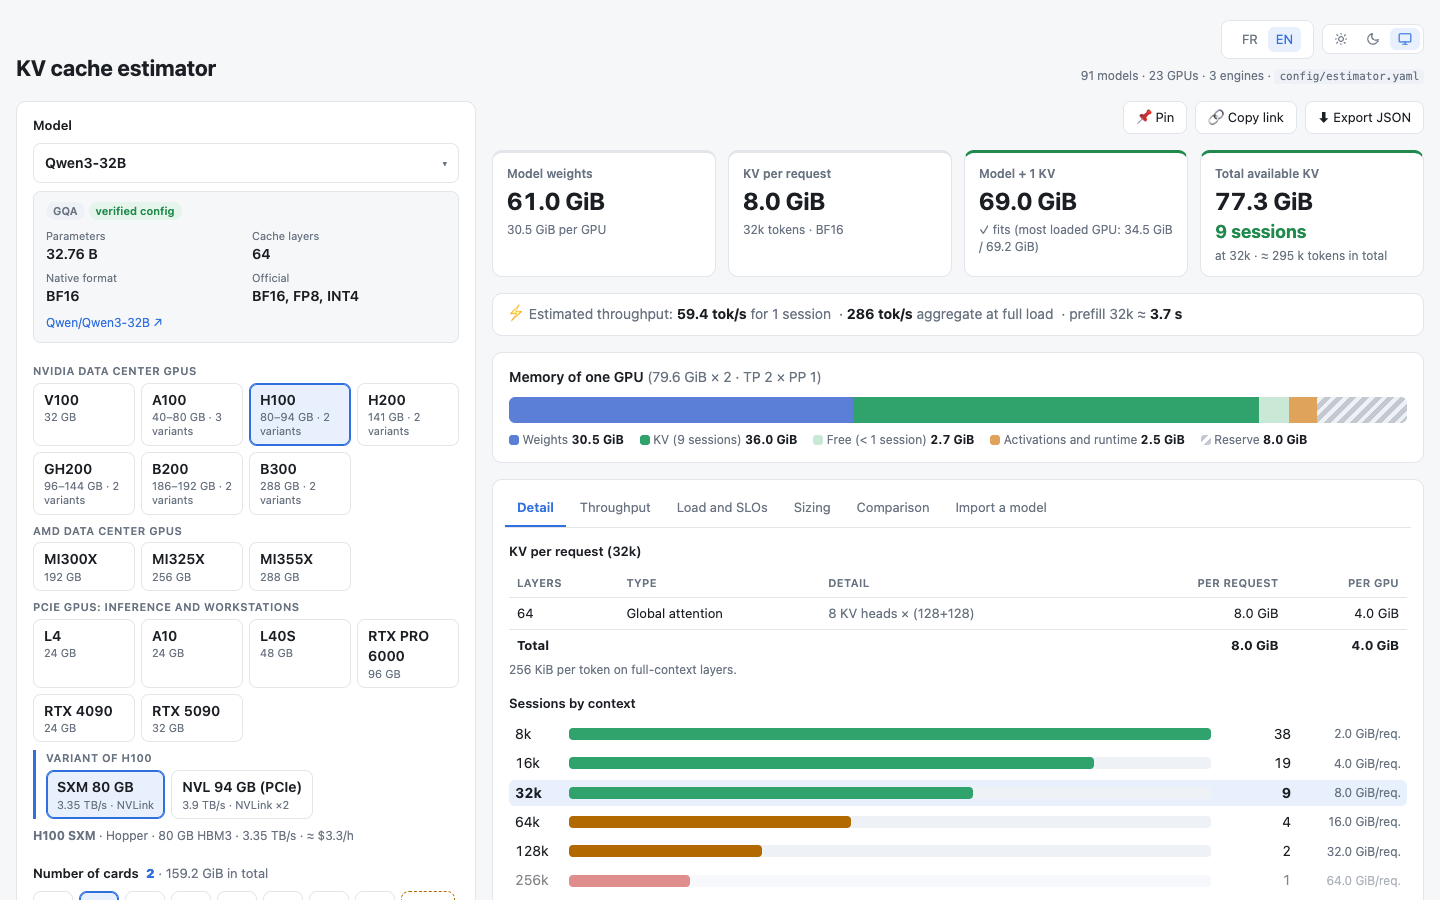
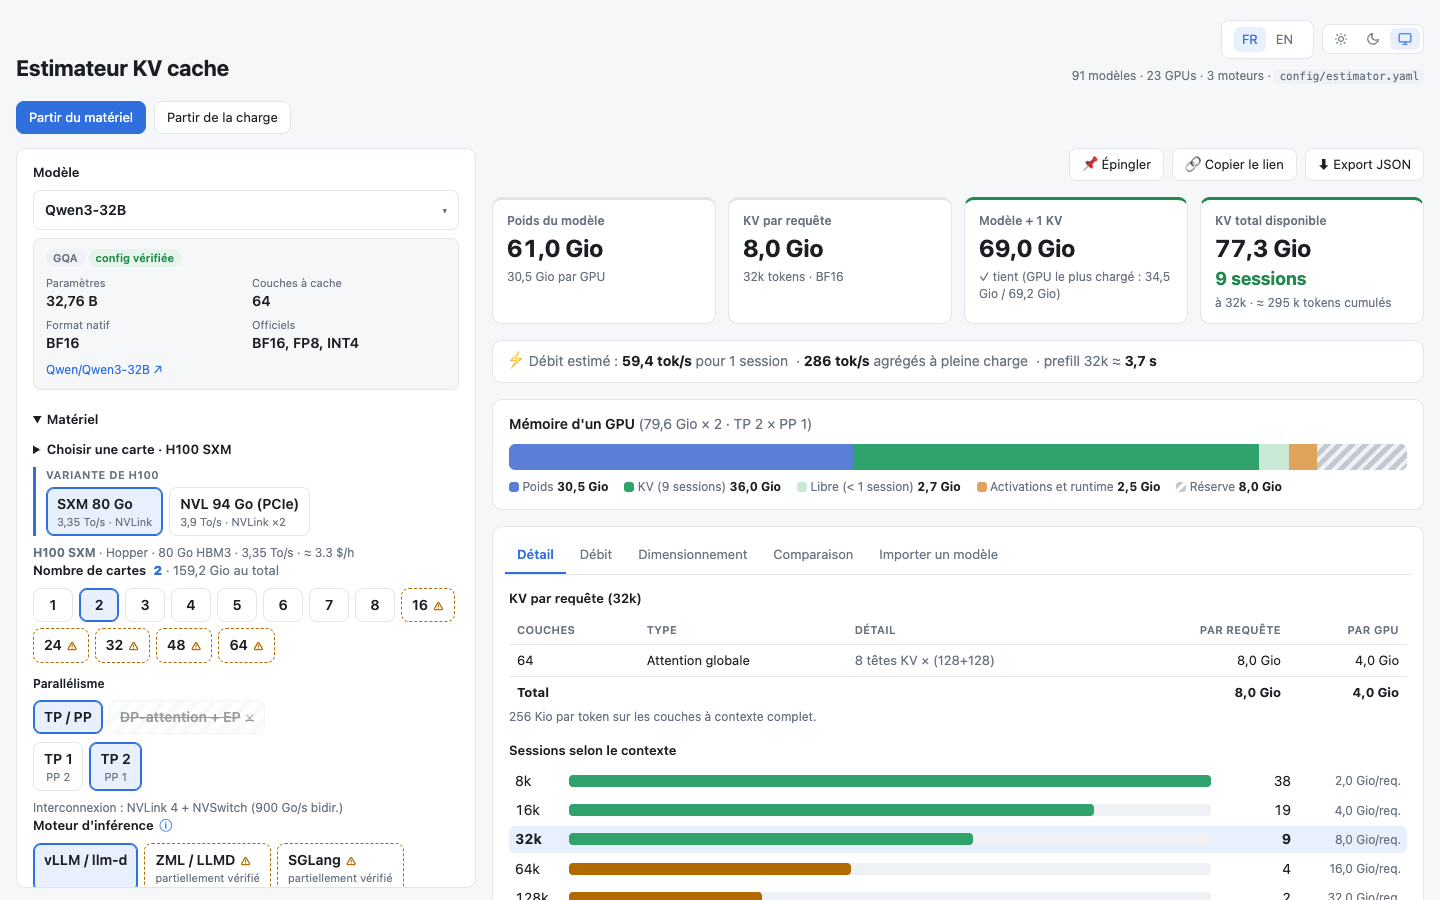
feat: keep estimation results visible while configuring (#14)

diff --git a/src/components/Estimator.tsx b/src/components/Estimator.tsx
@@ -32,6 +32,8 @@ import { PerfPanel } from "./PerfPanel";
 import { PrefsToggles, usePrefs } from "./Prefs";
 import { SizingPanel, type SizingChoice } from "./SizingPanel";
 import { WorkloadFields } from "./WorkloadPanel";
+import { ResultSummary } from "./ResultSummary";
+import { HelpTip } from "./HelpTip";
 
 const STORAGE = { pinned: "kv-estimator:pinned", imported: "kv-estimator:imported", tab: "kv-estimator:tab" };
 const TABS = [
@@ -345,12 +347,7 @@ export function Estimator({ source, configPath, initial }: { source: ConfigSourc
       { items: pick("limited"), cls: "lim-lim", icon: "⚠", one: t("limité", "limited"), many: t("limités", "limited") },
       { items: pick("unverified"), cls: "lim-unv", icon: "?", one: t("non vérifié", "not verified"), many: t("non vérifiés", "not verified") },
     ].filter((g) => g.items.length);
-    if (!groups.length)
-      return (
-        <p className="hint ok">
-          {t("Tous les formats sont supportés nativement", "All formats are natively supported")} ({gpu.name}, {engine.name}).
-        </p>
-      );
+    if (!groups.length) return null;
     return (
       <p className="hint">
         {gpu.name} · {engine.name}
@@ -467,19 +464,21 @@ export function Estimator({ source, configPath, initial }: { source: ConfigSourc
           </div>
 
           <div className="field">
-            <label className="field-label">{t("Moteur d'inférence", "Inference engine")}</label>
+            <div className="field-label">{t("Moteur d'inférence", "Inference engine")}
+              {engine.description && <HelpTip label={t("Description du moteur", "Engine description")}>{engine.description}</HelpTip>}
+            </div>
             <ChipGroup label={t("Moteur", "Engine")} options={engineOptions} value={s.engineId} onChange={setEngine} />
-            {engine.description && <p className="hint">{engine.description}</p>}
             <EngineCapabilities engine={engine} />
           </div>
 
           <div className="field">
-            <label className="field-label">{t("Format des poids", "Weight format")}</label>
+            <div className="field-label">{t("Format des poids", "Weight format")}
+              <HelpTip label={t("Légende des formats", "Format legend")}>
+                {t("★ format natif du modèle · « officiel » : checkpoint publié par l'éditeur", "★ native model format · “official”: checkpoint published by the vendor")}
+              </HelpTip>
+            </div>
             <ChipGroup label={t("Format des poids", "Weight format")} options={weightOptions} value={s.wf} onChange={(v) => update({ wf: v })} />
             {limitationLine(config.weightFormats.map((f) => ({ label: f.label, s: weightSupport(gpu, engine, f.id, lang) })))}
-            <p className="hint">
-              {t("★ format natif du modèle · « officiel » : checkpoint publié par l'éditeur", "★ native model format · “official”: checkpoint published by the vendor")}
-            </p>
           </div>
 
           <div className="field">
@@ -490,6 +489,8 @@ export function Estimator({ source, configPath, initial }: { source: ConfigSourc
 
           {!loadFirst && <ContextInput model={model} value={ctx} onChange={(v) => update({ ctx: v })} />}
 
+          <details className="field advanced" open={s.memGiB !== undefined || s.offloadGiB > 0 || s.batchedTokens !== undefined || s.overheadGiB !== undefined}>
+            <summary className="field-label">{t(`Options avancées · réserve ${s.reservePct} %`, `Advanced options · reserve ${s.reservePct}%`)}</summary>
           <div className="field">
             <label className="field-label" htmlFor="reserve">
               {t("Réserve hors moteur par GPU", "Reserve outside the engine per GPU")} <strong className="value">{t(`${s.reservePct} %`, `${s.reservePct}%`)}</strong>
@@ -521,8 +522,6 @@ export function Estimator({ source, configPath, initial }: { source: ConfigSourc
             </p>
           </div>
 
-          <details className="field advanced" open={s.memGiB !== undefined || s.offloadGiB > 0 || s.batchedTokens !== undefined || s.overheadGiB !== undefined}>
-            <summary className="field-label">{t("Options avancées", "Advanced options")}</summary>
             <label className="inline-form">
               <span>{t("Mémoire visible par GPU", "Visible memory per GPU")}</span>
               <input
@@ -585,6 +584,9 @@ export function Estimator({ source, configPath, initial }: { source: ConfigSourc
 
         {/* ------------------------------------------------ Results */}
         <section className="results" aria-label={t("Résultats", "Results")}>
+          <ResultSummary fits={est.fitsOneRequest} blocking={blocking} sessions={est.sessions}
+            tokPerSec={perf.single.tokPerSecPerSession} pricePerGpu={s.priceUsd ?? gpu.priceUsdPerHour} gpuCount={s.gpuCount}
+            targetId={loadFirst ? "sizing-panel" : "results-kpis"} loadFirst={loadFirst} />
           <div className="toolbar">
             <button type="button" className="btn" onClick={pin} disabled={pinned.length >= 6} title={t("Ajouter à la comparaison", "Add to the comparison")}>
               📌 {t("Épingler", "Pin")}
@@ -598,7 +600,7 @@ export function Estimator({ source, configPath, initial }: { source: ConfigSourc
           </div>
 
           {!loadFirst && <>
-          <div className="kpis">
+          <div className="kpis" id="results-kpis" tabIndex={-1} aria-label={t("Indicateurs", "Indicators")}>
             <Kpi
               title={t("Poids du modèle", "Model weights")}
               value={fmt.bytes(est.weights.totalBytes)}
@@ -696,7 +698,7 @@ export function Estimator({ source, configPath, initial }: { source: ConfigSourc
           }} />
           </>}
 
-          <div className="panel" id="sizing-panel">
+          <div className="panel" id="sizing-panel" tabIndex={-1}>
             <div className="tabs" role="tablist">
               {TABS.map((x) => (
                 <button key={x.id} type="button" role="tab" aria-selected={tab === x.id} className={`tab${tab === x.id ? " active" : ""}`} onClick={() => selectTab(x.id)}>

diff --git a/src/app/globals.css b/src/app/globals.css
@@ -197,7 +197,7 @@ h2 {
   gap: 16px;
   align-items: start;
 }
-@media (max-width: 960px) {
+@media (width < 960px) {
   .layout {
     grid-template-columns: minmax(0, 1fr);
   }
@@ -211,17 +211,29 @@ h2 {
 }
 
 .form {
+  min-width: 0;
+  /* Leave room for the header and entry selector before the page scrolls. */
+  max-height: calc(100dvh - 160px);
+  overflow-y: auto;
+  scrollbar-width: thin;
+  scrollbar-color: var(--border) transparent;
   display: flex;
   flex-direction: column;
   gap: 20px;
   position: sticky;
   top: 12px;
 }
-@media (max-width: 960px) {
+@media (width < 960px) {
   .form {
     position: static;
+    max-height: none;
+    overflow: visible;
   }
 }
+.form > *, .hardware-settings > * { flex-shrink: 0; }
+.hardware-settings { display: flex; flex-direction: column; gap: 12px; }
+.hardware-settings:not([open]) > :not(summary) { display: none; }
+.hardware-settings > summary { margin-bottom: 0; }
 
 .field {
   display: flex;
@@ -888,6 +900,7 @@ h3 {
   overflow-x: auto;
 }
 .tab {
+  flex-shrink: 0;
   border: 0;
   background: none;
   font: inherit;
@@ -1277,3 +1290,70 @@ h3 {
   }
 }
 /* --- End Compare (L5) --- */
+
+/* Compact result access, shared by both entry paths. */
+:where(button, summary, input, select, textarea, a, [tabindex]):focus-visible {
+  outline: 2px solid var(--accent);
+  outline-offset: 3px;
+}
+#results-kpis, #sizing-panel { scroll-margin-top: 16px; }
+.result-summary-anchor {
+  position: sticky;
+  top: 12px;
+  height: 0;
+  margin-bottom: -16px;
+  z-index: 10;
+}
+.result-summary {
+  display: none;
+  width: 100%;
+  align-items: center;
+  justify-content: space-between;
+  flex-wrap: wrap;
+  gap: 6px 12px;
+  padding: 10px 14px;
+  border: 1px solid var(--border);
+  border-radius: var(--radius);
+  background: var(--panel);
+  color: var(--text);
+  box-shadow: 0 3px 12px #0002;
+  font: inherit;
+  font-size: 12px;
+  text-align: left;
+  cursor: pointer;
+}
+.result-summary-anchor[data-visible="true"] .result-summary { display: flex; }
+.result-summary small { display: block; color: var(--muted); font-size: 10px; }
+.summary-good { color: var(--good); font-weight: 600; }
+.result-summary .summary-warning { flex-basis: 100%; color: var(--bad); }
+.gpu-catalog > summary { cursor: pointer; }
+.gpu-catalog[open] > summary { margin-bottom: 8px; }
+.gpu-catalog .gpu-group + .gpu-group { margin-top: 8px; }
+.help-tip { display: inline; margin-left: 6px; font-weight: normal; }
+.help-tip > summary { display: inline; color: var(--accent); cursor: pointer; }
+.help-tip-text {
+  display: block;
+  margin-top: 6px;
+  padding: 8px;
+  border: 1px solid var(--border);
+  border-radius: 6px;
+  background: var(--info-soft);
+  color: var(--text);
+  font-size: 12px;
+}
+@media (width < 960px) {
+  .tabs { flex-wrap: wrap; }
+  .page { padding-bottom: calc(112px + env(safe-area-inset-bottom)); }
+  .result-summary-anchor { position: static; }
+  .result-summary, .result-summary-anchor[data-visible="false"] .result-summary {
+    display: flex;
+    position: fixed;
+    bottom: 0;
+    left: 0;
+    right: 0;
+    z-index: 30;
+    border-radius: 0;
+    padding: 10px 12px calc(10px + env(safe-area-inset-bottom));
+    gap: 6px 10px;
+  }
+}

diff --git a/src/components/ResultSummary.tsx b/src/components/ResultSummary.tsx
@@ -1,0 +1,48 @@
+"use client";
+
+import { useEffect, useState } from "react";
+import { usePrefs } from "./Prefs";
+
+/** Observe presentation only; scenario state remains in the estimator. */
+export function ResultSummary({ fits, blocking, sessions, tokPerSec, pricePerGpu, gpuCount, targetId, loadFirst }: {
+  fits: boolean;
+  blocking: boolean;
+  sessions: number;
+  tokPerSec: number;
+  pricePerGpu?: number;
+  gpuCount: number;
+  targetId: string;
+  loadFirst: boolean;
+}) {
+  const { t, fmt } = usePrefs();
+  const [pastIndicators, setPastIndicators] = useState(false);
+  useEffect(() => {
+    const target = document.getElementById(targetId);
+    if (!target || loadFirst) return;
+    const observer = new IntersectionObserver(([entry]) => {
+      setPastIndicators(!entry.isIntersecting && entry.boundingClientRect.bottom <= 12);
+    }, { rootMargin: "-12px 0px 0px 0px" });
+    observer.observe(target);
+    return () => observer.disconnect();
+  }, [targetId, loadFirst]);
+
+  const goToResults = () => {
+    const target = document.getElementById(targetId);
+    target?.scrollIntoView({ block: "start" });
+    target?.focus({ preventScroll: true });
+  };
+  return (
+    <div className="result-summary-anchor" data-visible={!loadFirst && pastIndicators}>
+      <button type="button" className="result-summary" onClick={goToResults}
+        title={t("Voir les résultats détaillés", "See detailed results")}>
+        <span className={blocking || !fits ? "lim-un" : "summary-good"}>
+          {blocking ? t("✕ Invalide", "✕ Invalid") : fits ? t("✓ Ça tient", "✓ Fits") : t("✕ Ne tient pas", "✕ Does not fit")}
+        </span>
+        <span><strong>{fmt.int(sessions)}</strong> {t("sessions", "sessions")}{blocking && "*"}</span>
+        <span><strong>{fmt.rate(tokPerSec)}</strong><small>{t("1 session · estimé", "1 session · estimated")}{blocking && "*"}</small></span>
+        <span><strong>{pricePerGpu === undefined ? "—" : fmt.num(pricePerGpu * gpuCount)} $/h</strong><small>{t("configuration", "configuration")}</small></span>
+        {blocking && <small className="summary-warning">{t("* Théorique · configuration invalide", "* Theoretical · invalid configuration")}</small>}
+      </button>
+    </div>
+  );
+}

diff --git a/src/components/GpuPicker.tsx b/src/components/GpuPicker.tsx
@@ -55,6 +55,8 @@ export function GpuPicker({ gpus, value, onChange }: { gpus: GpuSpec[]; value: s
 
   return (
     <div className="gpu-picker">
+      <details className="gpu-catalog">
+        <summary className="field-label">{t("Choisir une carte", "Choose a card")} · {current.name}</summary>
       {GPU_GROUPS.map((group) => {
         const members = families.filter((f) => f.group === group.id);
         if (!members.length) return null;
@@ -71,6 +73,7 @@ export function GpuPicker({ gpus, value, onChange }: { gpus: GpuSpec[]; value: s
           </div>
         );
       })}
+      </details>
       {family.variants.length > 1 && (
         <div className="gpu-variants">
           <span className="gpu-group-label">

diff --git a/src/components/HelpTip.tsx b/src/components/HelpTip.tsx
@@ -1,0 +1,13 @@
+"use client";
+
+import type { ReactNode } from "react";
+
+/** Native disclosure works with keyboard and touch as well as a pointer. */
+export function HelpTip({ label, children }: { label: string; children: ReactNode }) {
+  return (
+    <details className="help-tip">
+      <summary aria-label={label}>ⓘ</summary>
+      <span className="help-tip-text">{children}</span>
+    </details>
+  );
+}
